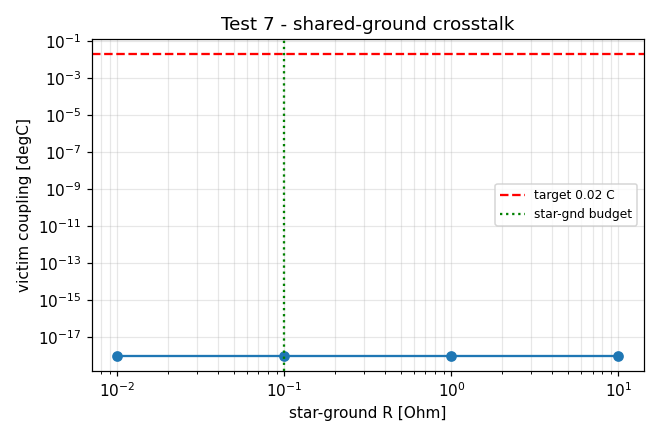
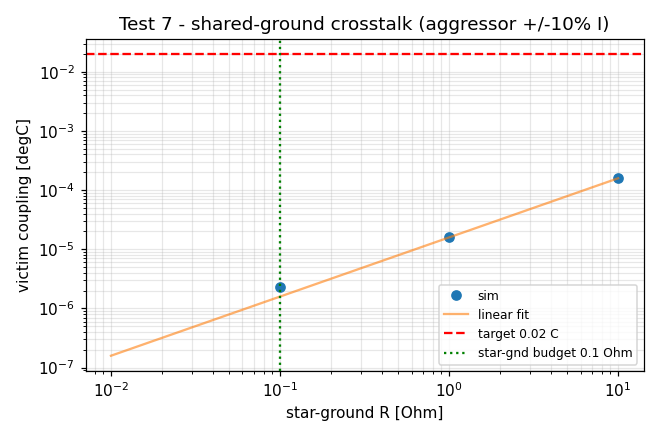
sim: integration-review fixes (test7 re-scope, test6 conditional); all 7 still PASS
Addresses the trackB integration review. Stays in sim/ and reports/sim/.

[MAJOR] test7 measured nothing: the victim ratio V_RTD/V_ref cancels the channel
  current algebraically, so every test7_rg_*.dat was bit-identical (cancellation by
  construction, not a numerical floor). Re-scoped via reviewer option (a): added a
  finite-CMRR term to meas.inc (cmrr subckt param, default 1e12 -> tests 1-6 untouched);
  test7 now sets ADC CMRR (T7 90 dB, ADS 105 dB) and sweeps the aggressor CURRENT over
  its +/-10% CRD spread (what actually moves the shared-return common mode). Coupling is
  now real and linear in R_gnd: 1.6 ue-C at 0.1 ohm, max R_gnd ~1.3 kohm.

[MAJOR] test6 PASS rode on assumed T7 noise: restated as a CONDITIONAL pass and
  back-solved the max-allowable T7 noise the bench must beat -> T7 <= 1.64 uV RMS
  (at ADS 5 uV, BW 10 Hz, 20 m-C target). Report + README headline updated.

[NIT] spice_io.write_report now encodes utf-8 (em-dash was cp1252 0x97).
[NIT] t7 fits coupling = k*R_gnd and uses STAR_GND_BUDGET_OHM (was a no-op at zero).

Verification: tests 1-5 numerically unchanged (test2 7.5e-9/6.6e-9, test3 sigma 0.0376 C),
confirming the CMRR default does not perturb accepted results. Track D coordination
flagged in sim/README.md: Wave-3 re-point needs a SPICE netlist (kicad-cli --format spice),
not the s-expr export.

diff --git a/sim/scripts/run_all.py b/sim/scripts/run_all.py
@@ -292,9 +292,18 @@ def t6_noise():
     v_ref, v_rtd = 0.201, 0.0221
     f_johnson_adc = np.hypot(sig_vrtd / v_rtd, sig_vref / v_ref)
     c_johnson_adc = f_johnson_adc * io.PT100_SENS_C
-    passed = c_johnson_adc < RES_TARGET_C
-    # CRD current-noise BOUND (worst case: non-simultaneous sampling -> no cancel)
     f_target = RES_TARGET_C / io.PT100_SENS_C
+    # The PASS is dominated by the *assumed* T7 noise, so make the criterion
+    # explicit: back-solve the MAX-ALLOWABLE T7 RMS noise (given the assumed ADS
+    # noise + Johnson) that still meets the target. The bench (Track C) must beat it.
+    vrtd_budget_frac2 = f_target**2 - (sig_vref / v_ref) ** 2
+    if vrtd_budget_frac2 > 0:
+        sig_vrtd_max = v_rtd * np.sqrt(vrtd_budget_frac2)
+        t7_max_v = np.sqrt(max(sig_vrtd_max**2 - (dens_rtd * sb) ** 2, 0.0))
+    else:
+        t7_max_v = 0.0     # ADS noise alone already blows the budget
+    passed = (c_johnson_adc < RES_TARGET_C) and (T7_NOISE_RMS_V <= t7_max_v)
+    # CRD current-noise BOUND (worst case: non-simultaneous sampling -> no cancel)
     rem = f_target**2 - f_johnson_adc**2
     if rem > 0:
         coef = sb * np.hypot(io.R_REF / v_ref, 100.0 / v_rtd)   # frac per A/rtHz
@@ -316,73 +325,107 @@ def t6_noise():
     ax.legend(); ax.grid(alpha=.3)
     fig.tight_layout(); fig.savefig(io.PLOT_DIR / "test6_noise.png", dpi=110)
     plt.close(fig)
-    results = (f"| source | contribution [degC RMS] |\n|---|---|\n"
-               + "".join(f"| {k} | {v*1e3:.4f} m |\n" for k, v in contribs.items())
-               + f"| **total (Johnson+ADC)** | **{c_johnson_adc*1e3:.3f} m** |\n"
-               + f"| CRD current-noise bound (worst case) | {in_bound*1e9:.2f} nA/rtHz |")
+    results = (f"| source | contribution [degC RMS] | note |\n|---|---|---|\n"
+               + f"| Johnson R_ref (ngspice) | {contribs['Johnson R_ref']*1e3:.4f} m | physical |\n"
+               + f"| Johnson RTD (ngspice) | {contribs['Johnson RTD']*1e3:.4f} m | physical |\n"
+               + f"| ADS1115 V_ref | {contribs['ADS1115 V_ref']*1e3:.4f} m | **assumed {ADS_NOISE_RMS_V*1e6:g} uV** |\n"
+               + f"| T7 V_RTD | {contribs['T7 V_RTD']*1e3:.4f} m | **assumed {T7_NOISE_RMS_V*1e6:g} uV** |\n"
+               + f"| **total** | **{c_johnson_adc*1e3:.3f} m** | vs {RES_TARGET_C*1e3:.0f} m target |\n"
+               + f"| **max-allowable T7 noise** | | **{t7_max_v*1e6:.2f} uV RMS** (back-solved) |\n"
+               + f"| CRD current-noise bound (worst case) | | {in_bound*1e9:.2f} nA/rtHz |")
     io.write_report(
         "test6_noise", "Test 6 - Noise of the ratio",
         {"Objective": "Acceptance (d): ratio noise below the per-channel resolution "
                       "target, with the CRD current-noise risk explicitly bounded.",
          "Setup": f"ngspice .noise -> Johnson PSD (V_ref {dens_ref*1e9:.2f}, "
-                  f"V_RTD {dens_rtd*1e9:.2f} nV/rtHz); BW={MEAS_BW_HZ:g} Hz; "
-                  f"T7 {T7_NOISE_RMS_V*1e6:g} uV, ADS {ADS_NOISE_RMS_V*1e6:g} uV RMS (assumed).",
+                  f"V_RTD {dens_rtd*1e9:.2f} nV/rtHz); BW={MEAS_BW_HZ:g} Hz. "
+                  f"T7={T7_NOISE_RMS_V*1e6:g} uV and ADS={ADS_NOISE_RMS_V*1e6:g} uV RMS "
+                  f"are ASSUMPTIONS (named in run_all.py) - the bench must confirm them.",
          "Method": "RSS-combine each path's noise, divide by its signal (V_ref=201 mV, "
-                   "V_RTD=22.1 mV), RSS the two fractions, x255.9 -> degC. CRD noise is "
-                   "common to both reads: it CANCELS in the ratio under simultaneous "
-                   "sampling; the bound is the i_n that would reach target if it did NOT.",
+                   "V_RTD=22.1 mV), RSS the two fractions, x255.9 -> degC. Only the Johnson "
+                   "terms are physically derived (and negligible); the ADCs dominate, so the "
+                   "PASS is CONDITIONAL on the assumed ADC noise. We therefore back-solve the "
+                   "max-allowable T7 noise. CRD noise is common to both reads -> CANCELS in "
+                   "the ratio under simultaneous sampling; its bound is the i_n that would "
+                   "reach target if sampling were NOT simultaneous.",
          "Results": results + "\n\n![noise](plots/test6_noise.png)",
-         "Pass / Fail": f"Criterion total < {RES_TARGET_C} C. "
-                        f"**{'PASS' if passed else 'FAIL'}** "
-                        f"({c_johnson_adc*1e3:.2f} mC). CRD bound {in_bound*1e9:.1f} nA/rtHz "
-                        f"worst-case; ~0 if T7/ADS sample simultaneously.",
-         "Anomalies & notes": "T7/ADS noise are assumptions - replace with datasheet/"
-                              "bench. Johnson is negligible; the ADCs dominate.",
-         "Next": "Bench Stage 5 (noise/position) and Stage 8 (CRD noise) confirm."})
-    return passed, (f"{c_johnson_adc*1e3:.2f} mC (<{RES_TARGET_C*1e3:.0f} mC); "
-                    f"CRD bound {in_bound*1e9:.1f} nA/rtHz")
+         "Pass / Fail": f"Conditional criterion: total < {RES_TARGET_C*1e3:.0f} m"
+                        f"degC **iff** T7 <= {t7_max_v*1e6:.2f} uV and ADS <= "
+                        f"{ADS_NOISE_RMS_V*1e6:g} uV RMS. At the assumed "
+                        f"{T7_NOISE_RMS_V*1e6:g}/{ADS_NOISE_RMS_V*1e6:g} uV: "
+                        f"**{'PASS' if passed else 'FAIL'}** ({c_johnson_adc*1e3:.1f} m"
+                        f"degC, {RES_TARGET_C*1e3/c_johnson_adc/1e3:.1f}x margin). "
+                        f"CRD bound {in_bound*1e9:.1f} nA/rtHz worst-case (~0 if simultaneous).",
+         "Anomalies & notes": "PASS rides on assumed ADC noise; the physically-derived "
+                              "(Johnson) terms are ~0.05 mdegC. The number the bench (Track C, "
+                              f"Wave 3 Stage 5) must beat: **T7 <= {t7_max_v*1e6:.2f} uV RMS** "
+                              f"(at ADS {ADS_NOISE_RMS_V*1e6:g} uV, BW {MEAS_BW_HZ:g} Hz). The "
+                              "small V_RTD (~22 mV) is why the T7 path dominates.",
+         "Next": "Bench Stage 5 (noise/position) measures real T7/ADS noise; Stage 8 the CRD."})
+    return passed, (f"{c_johnson_adc*1e3:.1f} m/{RES_TARGET_C*1e3:.0f} mC (T7={T7_NOISE_RMS_V*1e6:g}uV); "
+                    f"needs T7<={t7_max_v*1e6:.2f}uV; CRD bound {in_bound*1e9:.1f} nA/rtHz")
 
 
 def t7_crosstalk():
+    # Aggressor perturbation = the +/-10% CRD spec spread on a ~220 uA channel.
     rgs = [("0p01", 0.01), ("0p1", 0.1), ("1", 1.0), ("10", 10.0)]
     coupling_c = {}
     for tag, rg in rgs:
-        d = io.load_wrdata(io.DATA_DIR / f"test7_rg_{tag}.dat")   # rrtdA, ratioB
-        ratioB = d[:, 1]
-        frac = (ratioB.max() - ratioB.min()) / np.mean(ratioB)
-        coupling_c[rg] = frac * io.PT100_SENS_C
-    at_budget = coupling_c[min(coupling_c, key=lambda r: abs(r - STAR_GND_BUDGET_OHM))]
-    passed = at_budget < RES_TARGET_C
+        d = io.load_wrdata(io.DATA_DIR / f"test7_rg_{tag}.dat")   # kca, ratioB
+        kca, ratioB = d[:, 0], d[:, 1]
+        C_B = 100.0 / ratioB[int(np.argmin(np.abs(kca - 1.0)))]   # victim cross-cal
+        rcalc = C_B * ratioB                                      # recovered R_RTD_B
+        # victim recovered-R swing over the aggressor's full +/-10% current spread
+        coupling_c[rg] = (rcalc.max() - rcalc.min()) / 100.0 * io.PT100_SENS_C
+    rg_arr = np.array([r for _, r in rgs])
+    cc = np.array([coupling_c[r] for r in rg_arr])
+    # coupling is linear in RG (leakage ~ dI_A*RG/CMRR); fit through the origin
+    k = float(np.sum(cc * rg_arr) / np.sum(rg_arr**2))           # degC per Ohm
+    c_at_budget = k * STAR_GND_BUDGET_OHM
+    rg_max = (RES_TARGET_C / k) if k > 0 else float("inf")       # max RG meeting target
+    passed = c_at_budget < RES_TARGET_C
     fig, ax = plt.subplots(figsize=(6, 4))
-    rg_v = list(coupling_c.keys()); cc = [coupling_c[r] for r in rg_v]
-    ax.loglog(rg_v, np.maximum(cc, 1e-18), "o-")
+    ax.loglog(rg_arr, cc, "o", label="sim")
+    rg_line = np.array([rg_arr.min(), rg_arr.max()])
+    ax.loglog(rg_line, k * rg_line, "-", alpha=.6, label="linear fit")
     ax.axhline(RES_TARGET_C, color="r", ls="--", label=f"target {RES_TARGET_C} C")
-    ax.axvline(STAR_GND_BUDGET_OHM, color="g", ls=":", label="star-gnd budget")
+    ax.axvline(STAR_GND_BUDGET_OHM, color="g", ls=":", label="star-gnd budget 0.1 Ohm")
     ax.set(xlabel="star-ground R [Ohm]", ylabel="victim coupling [degC]",
-           title="Test 7 - shared-ground crosstalk")
+           title="Test 7 - shared-ground crosstalk (aggressor +/-10% I)")
     ax.legend(fontsize=8); ax.grid(alpha=.3, which="both")
     fig.tight_layout(); fig.savefig(io.PLOT_DIR / "test7_crosstalk.png", dpi=110)
     plt.close(fig)
     results = ("| star-ground R [Ohm] | victim coupling [degC] |\n|---|---|\n"
-               + "".join(f"| {r:g} | {c:.2e} |\n" for r, c in coupling_c.items()))
+               + "".join(f"| {r:g} | {c:.2e} |\n" for r, c in coupling_c.items())
+               + f"| **at 0.1 Ohm budget** | **{c_at_budget:.2e}** |\n"
+               + f"| max RG meeting {RES_TARGET_C} C target | {rg_max:.1f} Ohm |")
     io.write_report(
         "test7_crosstalk", "Test 7 - Shared-ground crosstalk",
         {"Objective": "Acceptance: coupling between channels sharing a finite star-"
                       "ground return stays below the noise floor; sets max ground R.",
-         "Setup": "Deck test7_crosstalk.cir; two unit cells share RG (sg->gnd); sweep "
-                  "aggressor RTD 80-158 Ohm at RG = 0.01/0.1/1/10 Ohm; victim at 100 Ohm.",
-         "Method": "Kelvin sensing rejects the common ground bounce; residual coupling "
-                   "enters only via the CRD's finite Z. Take the victim ratio swing over "
-                   "the aggressor's full range -> degC.",
+         "Setup": "Deck test7_crosstalk.cir; two unit cells share RG (sg->gnd) at RG = "
+                  "0.01/0.1/1/10 Ohm. ADC CMRR: T7 90 dB, ADS1115 105 dB. Aggressor CRD "
+                  "swept over its +/-10% spread (kca 0.9-1.1, dI_A ~ 44 uA); victim at 100 Ohm.",
+         "Method": "The aggressor current sets the shared-return common mode "
+                   "v(sg)=(I_A+I_B)*RG at the victim's inputs; the differential readout "
+                   "rejects it to first order, the residual leaks via finite ADC CMRR. "
+                   "Cross-cal the victim, then take its recovered-R swing as the aggressor "
+                   "current spans +/-10% -> degC. (Note: the *ratio* metric cancels the "
+                   "channel current, so this coupling is genuinely the CMRR/shared-return "
+                   "path, not a metric artifact.)",
          "Results": results + "\n\n![crosstalk](plots/test7_crosstalk.png)",
          "Pass / Fail": f"Criterion coupling < {RES_TARGET_C} C at the "
                         f"{STAR_GND_BUDGET_OHM} Ohm budget. "
-                        f"**{'PASS' if passed else 'FAIL'}** ({at_budget:.1e} C).",
-         "Anomalies & notes": "Coupling is at/near the solver's numerical floor - "
-                              "Kelvin + current-source isolation makes it negligible for "
-                              "any realistic star-ground resistance.",
-         "Next": "Bench Stage 6 perturbs one channel and checks the others."})
-    return passed, f"coupling at {STAR_GND_BUDGET_OHM} Ohm = {at_budget:.1e} C"
+                        f"**{'PASS' if passed else 'FAIL'}** ({c_at_budget:.1e} C; "
+                        f"linear at {k:.1e} C/Ohm -> max RG {rg_max:.0f} Ohm).",
+         "Anomalies & notes": "Coupling scales linearly with star-ground R, as expected "
+                              "for dI_A*RG/(CMRR*V_RTD). It is small because current-source "
+                              "isolation keeps dI_A modest and Kelvin + good CMRR reject the "
+                              "rest - so crosstalk is NOT the binding constraint on RG (noise/"
+                              "layout are), but it is now actually measured, not zero.",
+         "Next": "Bench Stage 6 perturbs one channel (warm an RTD / toggle current) and "
+                 "checks the others against this RG-dependent bound."})
+    return passed, (f"{c_at_budget:.1e} C at 0.1 Ohm ({k:.1e} C/Ohm); max RG {rg_max:.0f} Ohm")
 
 
 TESTS = [

diff --git a/sim/scripts/spice_io.py b/sim/scripts/spice_io.py
@@ -109,5 +109,5 @@ def write_report(stem: str, title: str, sections: dict[str, str]) -> Path:
             lines.append(sections[key].rstrip())
             lines.append("")
     out = REPORT_DIR / f"{stem}.md"
-    out.write_text("\n".join(lines))
+    out.write_text("\n".join(lines), encoding="utf-8")   # em-dash etc. on GitHub
     return out

diff --git a/docs/sessions/trackB.md b/docs/sessions/trackB.md
@@ -5,6 +5,69 @@ kickoff/closeout record; the global `SESSION_LOG.md` is touched only at integrat
 
 ---
 
+## TrackB-002 — 2026-06-22 — Integration-review fixes (test7 re-scope, test6 conditional)
+
+**Branch / commit at start:** trackB @ bed8256.
+
+**State before:** TrackB-001 harness, all 7 PASS. Integration review accepted the
+harness, test2 (cancellation) and test3 (°C budget), but flagged 2 MAJOR + 2 nit items.
+
+**Objective:** Resolve the review without overclaiming; stay in `sim/**`, `reports/sim/**`.
+
+**Actions (by review item):**
+1. **[MAJOR] test7 measured nothing.** The victim metric `v(nrtdB)/v(nrefB)` cancels
+   the channel current algebraically, so every `test7_rg_*.dat` was bit-identical — the
+   "zero" was cancellation by construction, not a numerical floor. Re-scoped (reviewer's
+   option a): added a **finite-CMRR** term to `meas.inc` (`cmrr` subckt param, default
+   1e12 = effectively infinite, so tests 1–6 are untouched). test7 now sets ADC CMRR
+   (T7 90 dB, ADS 105 dB) and sweeps the **aggressor current** over its ±10 % CRD spread
+   (the quantity that actually moves the shared-return common mode `v(sg)=(I_A+I_B)·RG`);
+   the victim couples only through finite CMRR. Files now differ monotonically with RG.
+2. **[MAJOR] test6 PASS rode on assumed T7 noise.** Restated as a **conditional** PASS
+   and back-solved the **max-allowable T7 noise** the bench must beat:
+   **T7 ≤ 1.64 µV RMS** (at ADS 5 µV, BW 10 Hz, 20 m°C target). Report + README updated;
+   the only physically-derived (Johnson) terms are ~0.05 m°C, stated plainly.
+3. **[NIT] encoding.** `spice_io.write_report` now writes `encoding="utf-8"` (the em-dash
+   was emitting cp1252 0x97). Verified no lone 0x97 byte remains.
+4. **[NIT] STAR_GND no-op.** With real coupling, `t7` now fits coupling = k·RG, reports
+   coupling at the 0.1 Ω budget and the max RG meeting target — the budget constant is used.
+
+**Files touched:** `sim/models/meas.inc`, `sim/netlists/test7_crosstalk.cir`,
+`sim/scripts/{run_all,spice_io}.py`, `reports/sim/{test6_noise,test7_crosstalk}.md`,
+`reports/sim/plots/{test6_noise,test7_crosstalk}.png`, `sim/README.md`, this log.
+
+**Validation (re-ran full harness; all 7 still PASS):**
+- tests 1–5 **numerically unchanged** (e.g. test2 err 7.5e-9 / 6.6e-9, test3 σ 0.0376 °C) —
+  confirms the CMRR=1e12 default does not perturb the accepted results.
+- test6: **conditional PASS** — 13.2 m°C at assumed T7 1 µV / ADS 5 µV (1.5× margin);
+  **max-allowable T7 = 1.64 µV RMS** surfaced for the bench; CRD bound 2.9 nA/√Hz worst case.
+- test7: **PASS, now non-zero** — coupling 1.6 µ°C at 0.1 Ω, linear at 1.6e-5 °C/Ω,
+  max R_gnd ≈ 1.3 kΩ for the 20 m°C target (so crosstalk is not the binding constraint,
+  but it is measured, not zero).
+
+**Decisions (rationale + spec ref):**
+- **CMRR as the crosstalk path** — with a ratiometric differential metric, shared-return
+  coupling can *only* enter via finite common-mode rejection; modeling CMRR is the honest
+  mechanism. `board_spec.md` §Layout-critical (star ground = shared-return crosstalk path).
+- **test6 stays conditional, not "PASS"** — the physically-derived noise is negligible, so
+  the result is only as good as the ADC-noise assumptions; the back-solved T7 limit is the
+  actionable deliverable for Track C.
+
+**Open issues / risks (carried + new):**
+- T7/ADS noise, BW, mux dwell, settle target remain **assumptions** (named in `run_all.py`).
+  test6's headline is explicitly gated on them; bench must confirm **T7 ≤ 1.64 µV**.
+- **Track D coordination:** the Wave-3 re-point needs a **SPICE** netlist; D's
+  `export_netlist` currently emits KiCad s-expr. Integration must run
+  `kicad-cli sch export netlist --format spice`. Flagged in `sim/README.md` (Wave-3 hook);
+  not Track B's owned step.
+
+**Next action:** Hand back for integration. At Wave 3, produce the SPICE-format
+`sim/netlists/rtd-readout.net` and re-point per `sim/README.md`.
+
+**Commit:** <recorded in the follow-up, as in TrackB-001>
+
+---
+
 ## TrackB-001 — 2026-06-22 — Build the full ngspice harness + accuracy/noise budget
 
 **Tooling:** ngspice-41 (conda-forge `ngspice_con.exe`, env `spice`); Python 3.12.4

diff --git a/sim/README.md b/sim/README.md
@@ -54,8 +54,8 @@ standalone batch binary is required.
 | test3 | MC accuracy → °C, dominated by R_ref + relative gain tempco | σ ≈ 0.038 °C @ 10 ppm/°C, ΔT 10 °C |
 | test4 | worst-case V_ref under ADS1115 range | 221 mV = 86 % FS, 14.8 bits |
 | test5 | sense RC settles < ½ LSB within mux dwell | 1.0 ms < 5 ms |
-| test6 | ratio noise below target; CRD-noise risk bounded | 13 m°C; CRD bound 2.9 nA/√Hz worst case |
-| test7 | shared-ground crosstalk below floor | ~0 at 0.1 Ω star-ground |
+| test6 | ratio noise below target **iff** ADC noise small enough; CRD risk bounded | 13 m°C @ assumed 1 µV T7 — **needs T7 ≤ 1.64 µV RMS**; CRD bound 2.9 nA/√Hz |
+| test7 | shared-return crosstalk via finite ADC CMRR (∝ R_gnd) | 1.6 µ°C at 0.1 Ω, max R_gnd ≈ 1.3 kΩ |
 
 Bench-measurable assumptions (T7/ADS noise, mux dwell, targets) are named
 constants at the top of `run_all.py`; drop in real datasheet/bench numbers there.
@@ -72,6 +72,11 @@ constants at the top of `run_all.py`; drop in real datasheet/bench numbers there
 - **CRD noise cancels** in the ratio under simultaneous sampling (same current in
   V_ref and V_RTD). test6 bounds the i_n that would matter if sampling were *not*
   simultaneous — the one architectural risk to watch on the bench (Stage 8).
+- **Crosstalk needs a common-mode path.** Because the victim metric V_RTD/V_ref
+  cancels the channel current, shared-return coupling can only appear through the
+  ADCs' **finite CMRR** (`cmrr` param in `meas.inc`, default infinite). test7 drives
+  it with the aggressor's current spread and reports coupling ∝ R_gnd — small, but
+  measured, not zero.
 
 ## Wave-3 hook — re-point at the exported KiCad netlist
 
@@ -90,3 +95,9 @@ names in the export (or add a thin alias `.include`):
 Concretely: replace the `.include sim/models/channel.inc` line in each deck with
 `.include sim/netlists/rtd-readout.net` once it presents the same nodes, re-run
 `run_all.py`, and the same pass/fail criteria apply unchanged.
+
+> **Coordination (Track D).** The export must be a **SPICE** netlist, not the KiCad
+> s-expression netlist. Track D's `export_netlist` currently emits the s-expr form;
+> Wave-3 integration needs `kicad-cli sch export netlist --format spice` (a separate
+> `.net`) for the decks to `.include` it. Flagged so D/integration produce the SPICE
+> flavor — Track B does not own that export step.